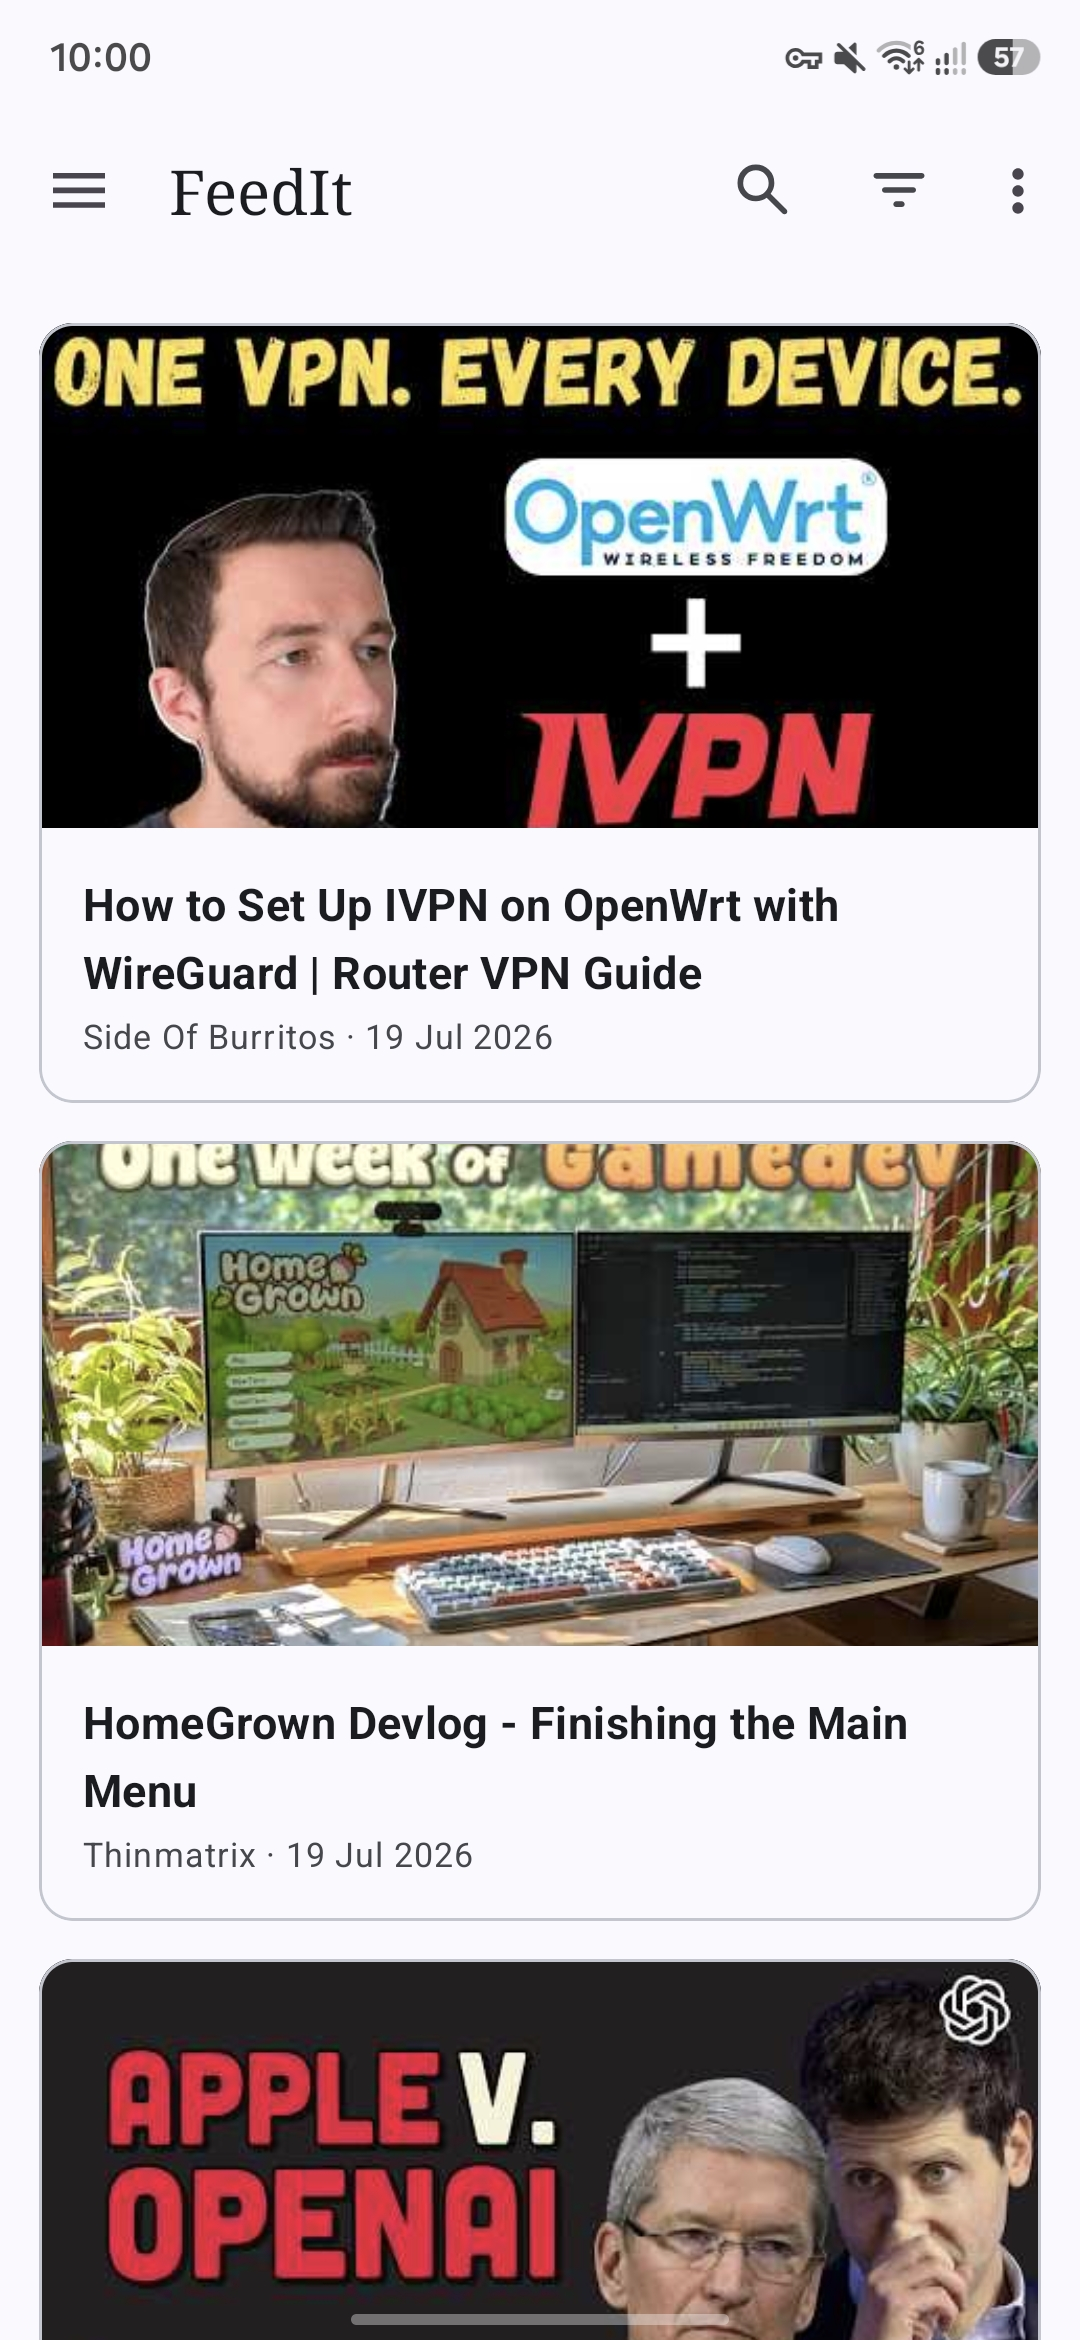
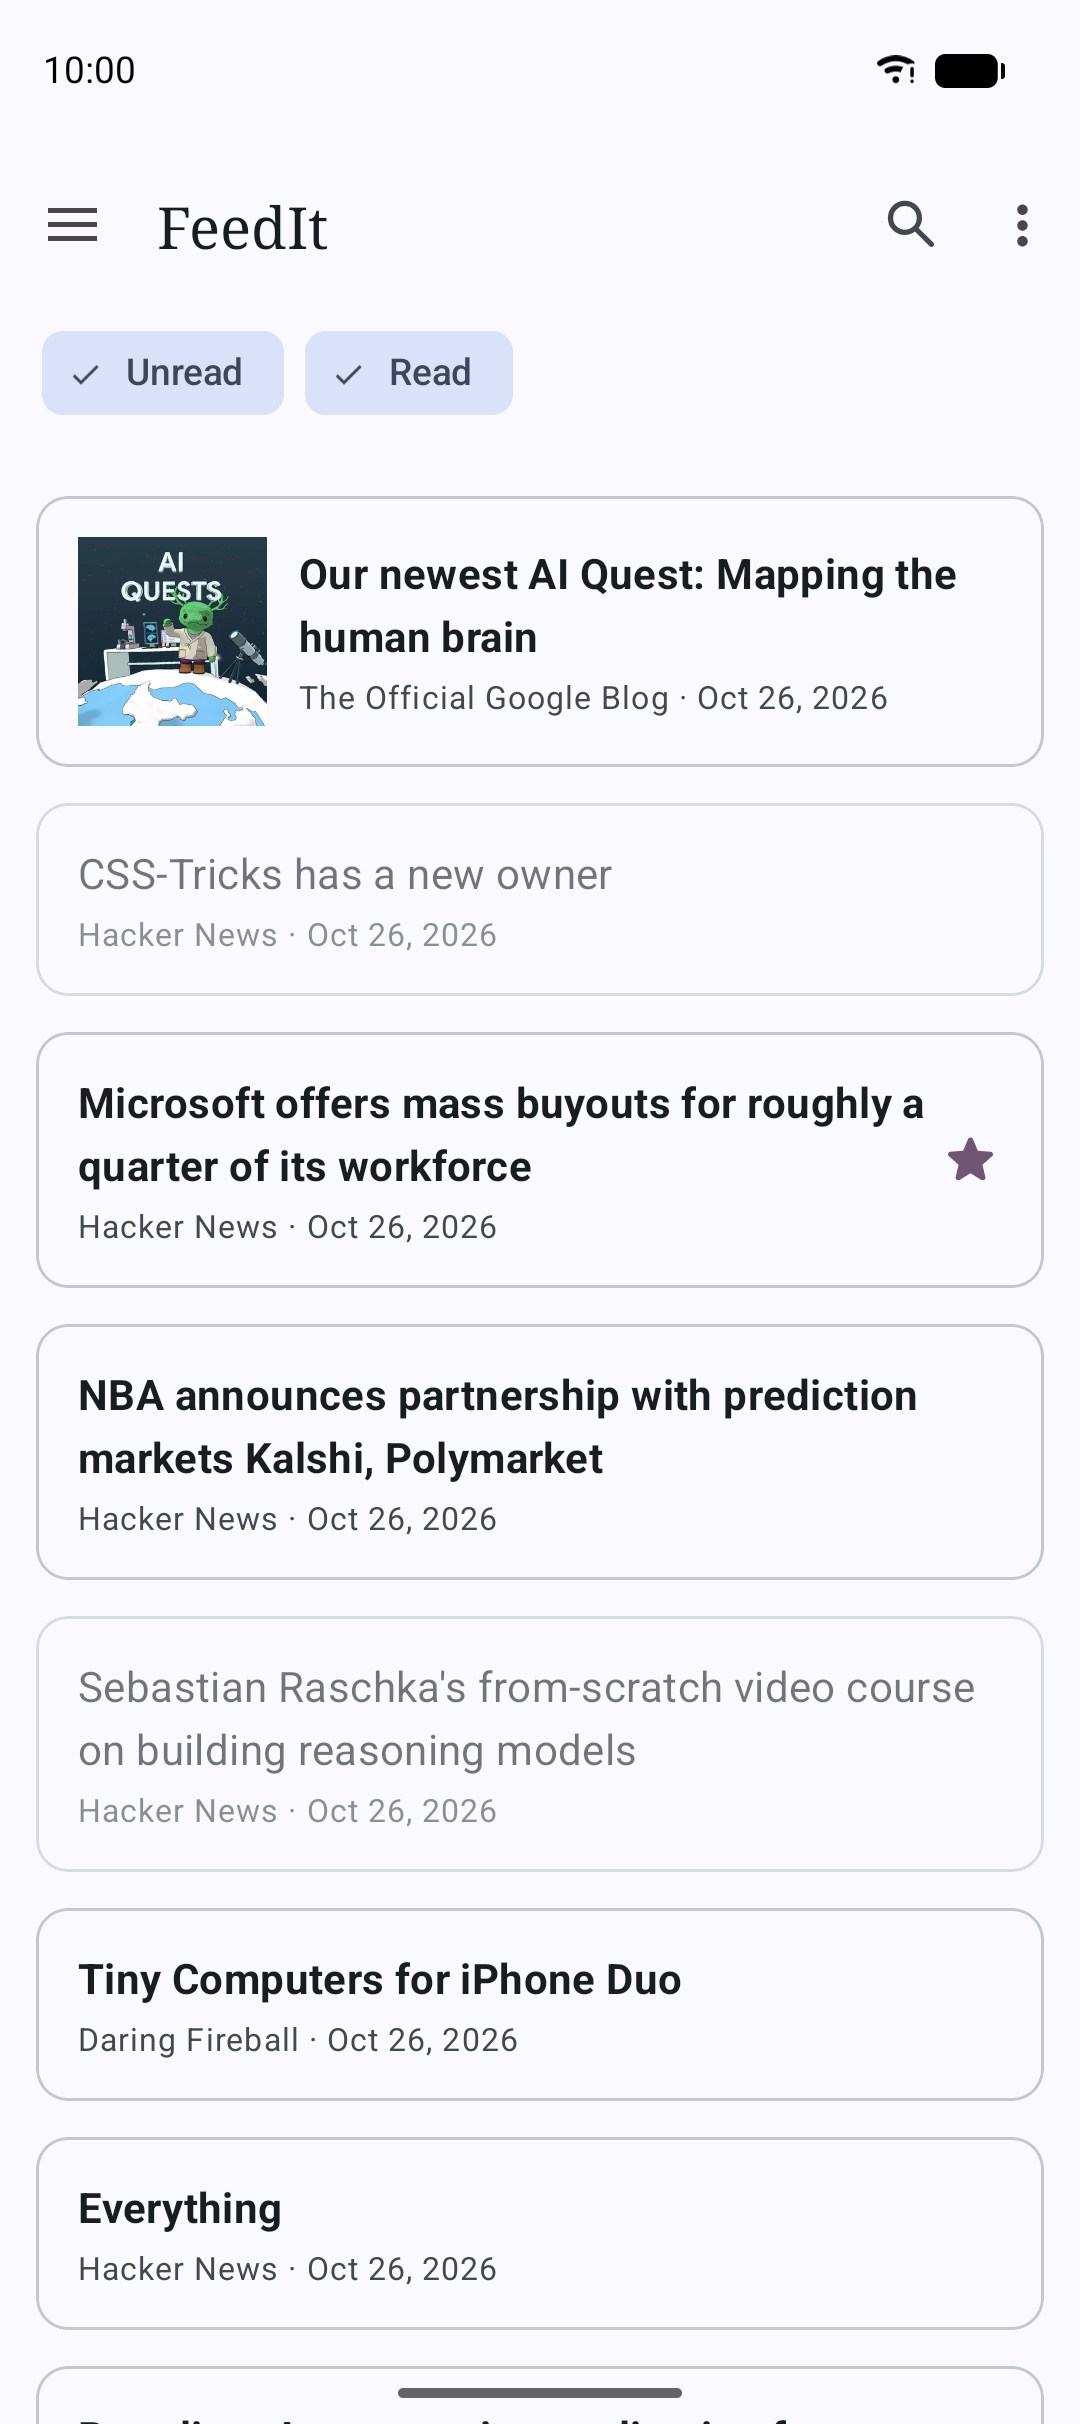
Retook screenshots for v1.1 UI and updated README features, removed em dashes

diff --git a/README.md b/README.md
@@ -6,7 +6,7 @@
 
 **Your feeds. Read your way.**
 
-FeedIt is a simple, open-source RSS and Atom feed reader for Android. No account, no server of ours, no tracking — feeds are fetched directly from their own source, and everything else.
+FeedIt is a simple, open-source RSS and Atom feed reader for Android. No account, no server of ours, no tracking. Feeds are fetched directly from their own source, and everything stays on your device.
 
 </div>
 
@@ -14,15 +14,19 @@ FeedIt is a simple, open-source RSS and Atom feed reader for Android. No account
 
 * **Free and Open Source:** Enjoy complete transparency and community-driven development.
 * **No Account, No Tracking:** There's no login, no analytics, and nothing phoning home beyond fetching the feeds you actually subscribed to. Everything you read, star, and organize stays in a local database on your device.
-* **Feed Management:** Add a feed by URL — with auto-discovery, so pasting a site's homepage usually finds its feed for you — organize with freeform tags, and set each feed to open articles in-app or in your browser.
-* **Multiple Article Layouts:** List, Compact, Card, or Magazine — pick the density and style that actually fits how you read, from a quick headline scan to a full-image-forward view.
-* **Search, Filter & Sort:** Full-text search, a Read/Unread checkbox filter that remembers your choice, and sorting by newest, oldest, unread-first, or by feed.
-* **Background Sync, On Your Terms:** Choose a sync interval from 15 minutes to 12 hours, restrict it to Wi-Fi, or just pull to refresh manually — feeds are fetched concurrently, so one slow server doesn't hold up the rest.
+* **Feed Management:** Add a feed by URL, with auto-discovery so pasting a site's homepage usually finds its feed for you. Organize with freeform tags (listed in the navigation drawer with unread counts), set each feed to open articles in-app or in your browser, and cancel a slow add at any time.
+* **Broad Format Support:** RSS 2.0, RSS 1.0, Atom, and JSON Feed, including YouTube and Mastodon feeds. Insecure `http://` feed links are upgraded to `https://`.
+* **Multiple Article Layouts:** List, Compact, Card, or Magazine. Pick the density and style that actually fits how you read, from a quick headline scan to a full-image-forward view.
+* **Search, Filter & Sort:** Full-text search, Unread/Read filter chips that remember your choice, a Starred view, and sorting by newest, oldest, unread-first, or by feed.
+* **Swipe Gestures:** Swipe an article right to toggle read, or left to toggle its star. "Mark all read" comes with an Undo.
+* **Background Sync, On Your Terms:** Choose a sync interval from 15 minutes to 12 hours, restrict it to Wi-Fi, or just pull to refresh manually. Feeds are fetched concurrently, so one slow server doesn't hold up the rest, and feeds that fail to sync show their last error.
 * **Notifications:** Per-feed toggles for new-article alerts, with their own searchable and sortable management screen, plus a manual-sync summary and a single master switch that overrides everything if you just want quiet.
-* **Quick Actions:** Long-press an article for a bottom sheet context menu — mark read/unread, star, share, or open in your browser — without leaving the list.
+* **Reader:** Read articles in-app with previous/next navigation and an adjustable text size.
+* **Storage Control:** Choose how long to keep unstarred articles (30 days to forever). Starred articles are never pruned.
+* **Quick Actions:** Long-press an article for a bottom sheet context menu to mark read/unread, star, share, or open in your browser without leaving the list.
 * **Appearance:** Choose System, Light, or Dark theme; boost contrast for readability; and opt into Material You dynamic color that matches your device's wallpaper.
 * **OPML Import & Export:** Bring your subscriptions in from another reader, or take them with you if you ever want to leave.
-* **Crash Reports:** If the app encounters an unexpected error, a dialog on the next launch lets you copy the technical details to your clipboard or save them to a file — nothing from your feeds or reading history is ever included, and nothing is sent automatically.
+* **Crash Reports:** If the app encounters an unexpected error, a dialog on the next launch lets you copy the technical details to your clipboard or save them to a file. Nothing from your feeds or reading history is ever included, and nothing is sent automatically.
 
 ## Screenshots
 
@@ -75,7 +79,7 @@ Certificate fingerprints:
 
 ### PGP Signing
 
-As an additional layer on top of the Android signature above, each release is also signed with my PGP key. While `apksigner` confirms the APK itself is intact, a PGP signature confirms that *I* am the one who published this specific file to GitHub — an independent check that doesn't rely on GitHub's account security alone.
+As an additional layer on top of the Android signature above, each release is also signed with my PGP key. While `apksigner` confirms the APK itself is intact, a PGP signature confirms that *I* am the one who published this specific file to GitHub. It is an independent check that doesn't rely on GitHub's account security alone.
 
 **Public key fingerprint:**
 ```
@@ -89,7 +93,7 @@ curl -O https://mowtiie.cc/PGP_PUBLIC_KEY.asc
 gpg --import PGP_PUBLIC_KEY.asc
 ```
 
-After importing, confirm the fingerprint printed by GPG matches the one listed above — that match is what actually establishes trust, not the import step itself. Fetching the key over HTTPS from a domain you already trust is arguably a stronger anchor than a keyserver, since keyservers accept uploads from anyone and don't vouch for identity.
+After importing, confirm the fingerprint printed by GPG matches the one listed above. That match is what actually establishes trust, not the import step itself. Fetching the key over HTTPS from a domain you already trust is arguably a stronger anchor than a keyserver, since keyservers accept uploads from anyone and don't vouch for identity.
 
 Each release includes a detached `.asc` signature alongside the APK. Verify a downloaded release with:
 
@@ -103,11 +107,11 @@ A valid signature looks like:
 Good signature from "Mowtiie <mowtiie.dev@gmail.com>"
 ```
 
-**Note:** PGP signing is a supplementary trust measure, not a substitute for the `apksigner` check above — verify both if you want the highest confidence that a release is genuine and unmodified.
+**Note:** PGP signing is a supplementary trust measure, not a substitute for the `apksigner` check above. Verify both if you want the highest confidence that a release is genuine and unmodified.
 
 ## Mapping Files
 
-Each release on GitHub includes a `mapping-<version>.txt` file alongside the APK. This file is needed to deobfuscate stack traces from crash reports — match the file to the version shown in the crash report header and use it with `retrace` from the Android SDK.
+Each release on GitHub includes a `mapping-<version>.txt` file alongside the APK. This file is needed to deobfuscate stack traces from crash reports. Match the file to the version shown in the crash report header and use it with `retrace` from the Android SDK.
 
 ## Contributing
 
